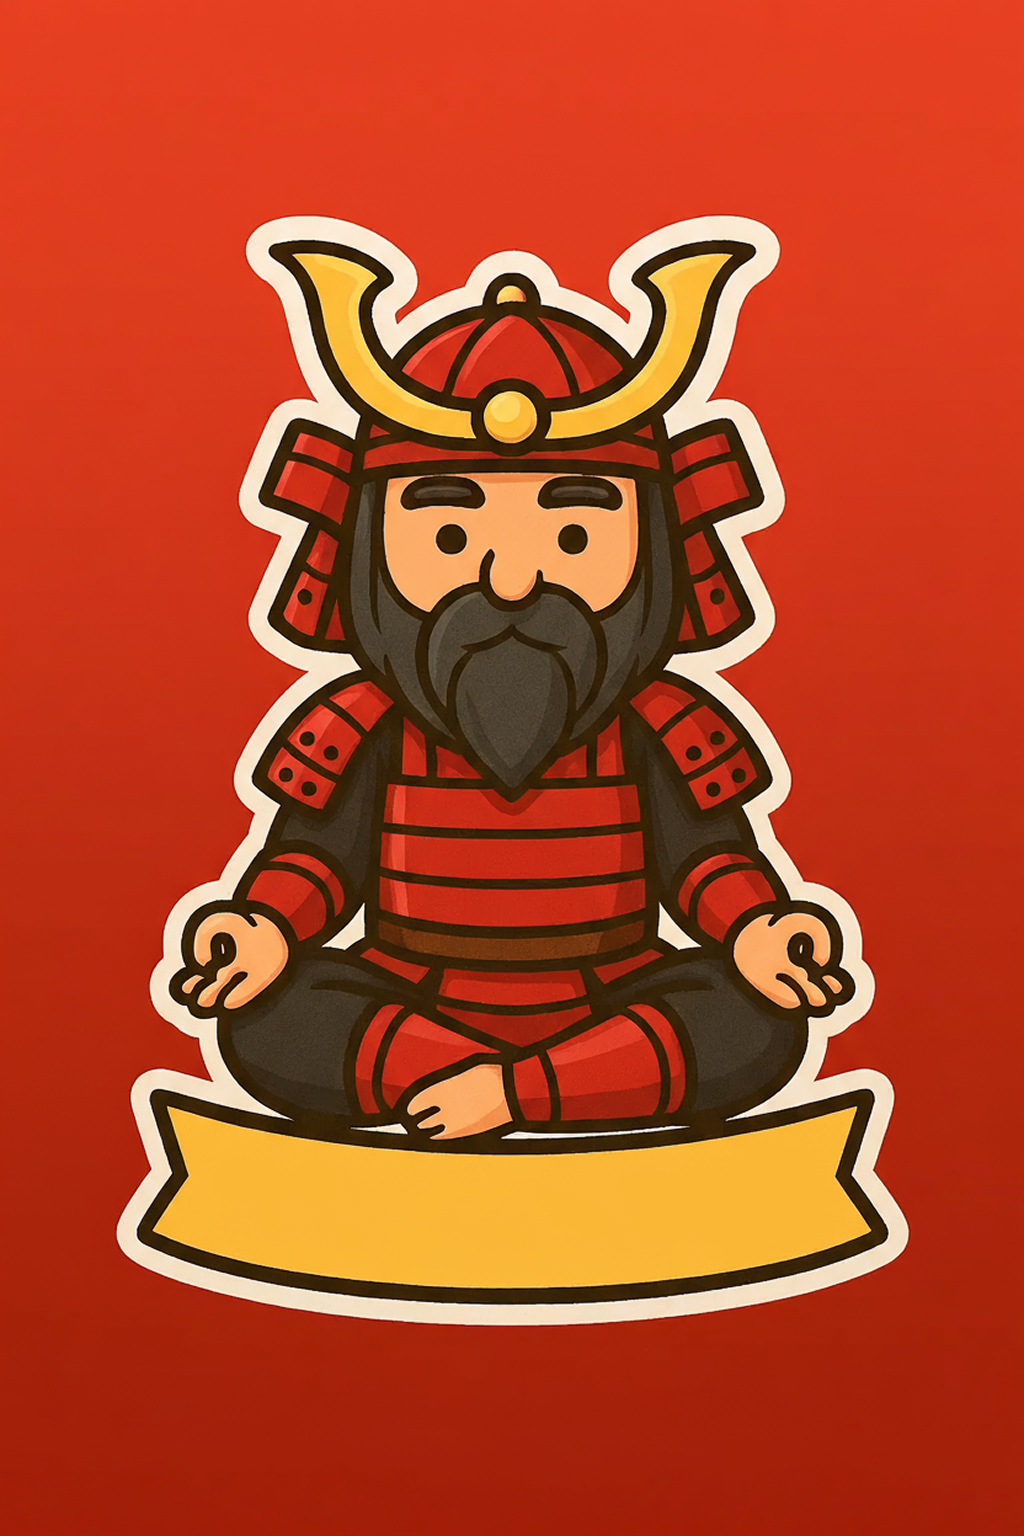
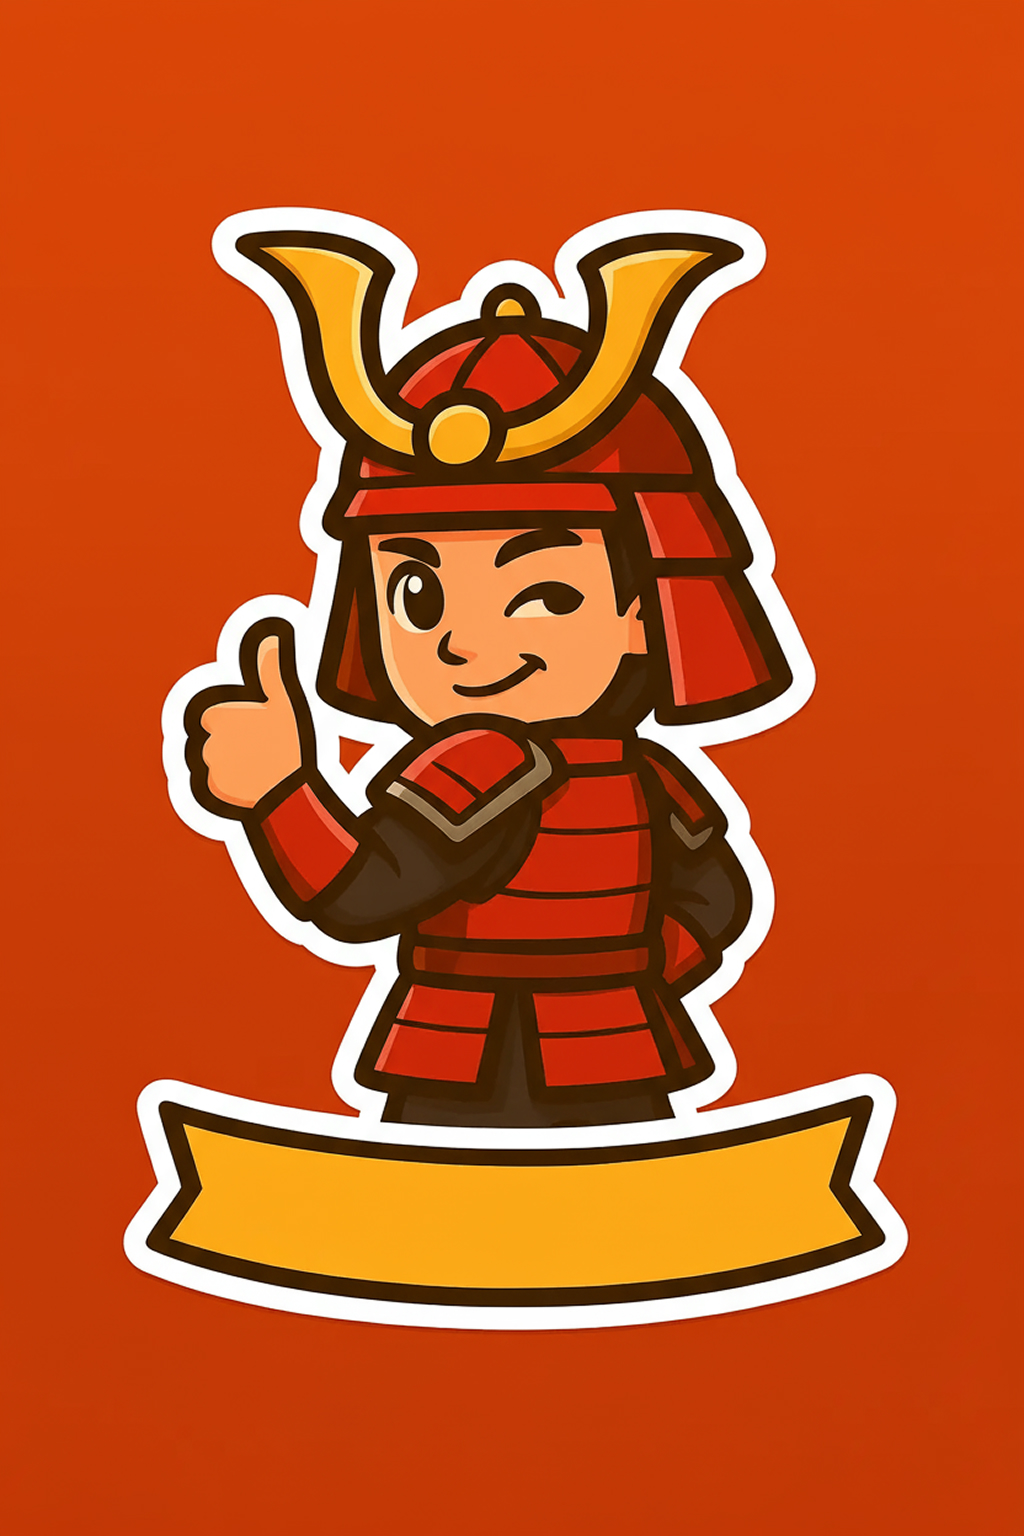
Добавлена генерация текста в промпте, убраны шаги, увеличен лимит текста до 20 символов, добавлен ref3.jpg

diff --git a/badge_bot.py b/badge_bot.py
@@ -47,7 +47,10 @@ REPLICATE_API_TOKEN = os.getenv("REPLICATE_API_TOKEN", "YOUR_REPLICATE_TOKEN")
 GENERATION_MODEL = "google/nano-banana"
 GENERATION_SEED = 4034097716  # None = случайный, число = фиксированный seed
 BACKGROUND_REMOVAL_MODEL = "851-labs/background-remover:a029dff38972b5fda4ec5d75d7d1cd25aeff621d2cf4946a41055d7db66b80bc"
-BACKGROUND_REMOVAL_ENABLED = False  # Деактивировано
+BACKGROUND_REMOVAL_ENABLED = False  # Активировано
+
+# Режим генерации текста
+GENERATE_TEXT_IN_PROMPT = True  # True = текст генерируется в промпте, False = добавляется программно
 
 # Референсные изображения
 REFERENCE_IMAGES_DIR = "reference_images"
@@ -63,7 +66,7 @@ TEXT_BEND_SHORT = 20  # Изгиб для текста <= 12 символов
 TEXT_BEND_LONG = 28   # Изгиб для текста > 12 символов
 TEXT_VERTICAL_OFFSET = 6  # Смещение текста вверх (пиксели)
 TEXT_LETTER_SPACING = 0.02  # Разрядка между буквами
-TEXT_MAX_LENGTH = 12  # Максимальная длина текста на баннере
+TEXT_MAX_LENGTH = 20  # Максимальная длина текста на баннере
 
 # Настройки поиска баннера
 BANNER_SEARCH_AREA_START = 0.6  # Начинаем поиск с 60% высоты изображения
@@ -93,12 +96,12 @@ MESSAGES = {
 
     "help": """📖 **Справка по использованию**
 
-**Шаг 1:** Опиши коротко что должно быть с самураем
+Опиши коротко что должно быть с самураем
 • Например: "с гитарой, с клавиатурой, в боевой стойке с мечом, с молотком, в овечьей шкуре"
 • Можно на русском или английском
 • Опиши что должно быть на картинке
 
-**Шаг 2:** Укажите текст для баннера
+Укажи текст для баннера
 • До {max_length} символов для лучшего вида
 • Английские заглавные буквы смотрятся лучше
 • Примеры: "UX SCOUT", "DEBUG NINJA"
@@ -132,7 +135,7 @@ MESSAGES = {
 
     "create_start": """🎨 Создаём новый бейдж!
 
-{step_text} Опиши коротко что должно быть с самураем
+Опиши коротко что должно быть с самураем
 Например: "с гитарой, с клавиатурой, в боевой стойке с мечом, с молотком, в овечьей шкуре"
 
 Или /cancel для отмены""",
@@ -141,7 +144,7 @@ MESSAGES = {
 
 📸 Использую предустановленные референсные фото ({count} шт.)
 
-**Шаг 2/2:** Какой текст написать на баннере?
+Какой текст написать на баннере?
 Например: DEBUG NINJA, CODE MASTER, UX SCOUT...
 
 (До {max_length} символов)""",
@@ -150,21 +153,21 @@ MESSAGES = {
 
 ⚠ Референсные фото не найдены в папке {ref_dir}
 
-**Шаг 2/2:** Какой текст написать на баннере?
+Какой текст написать на баннере?
 Например: DEBUG NINJA, CODE MASTER, UX SCOUT...
 
 (До {max_length} символов)""",
 
     "scene_received_old_mode": """✅ Отлично! Сюжет: *{scene}*
 
-**Шаг 2/3:** Хочешь добавить референсные фото? (опционально)
+Хочешь добавить референсные фото? (опционально)
 Отправь фото или напиши /skip чтобы пропустить
 
 Можно отправить до 4 фото""",
 
     "photo_uploaded_max": """✅ Загружено {count} фото (максимум)
 
-**Шаг 3/3:** Какой текст написать на баннере?
+Какой текст написать на баннере?
 Например: DEBUG NINJA, CODE MASTER, UX SCOUT...
 
 (До {max_length} символов)""",
@@ -177,7 +180,7 @@ MESSAGES = {
 
     "skip_photos": """⏭ Пропускаем референсные фото
 
-**Шаг 3/3:** Какой текст написать на баннере?
+Какой текст написать на баннере?
 Например: DEBUG NINJA, CODE MASTER, UX SCOUT...
 
 (До {max_length} символов)""",
@@ -186,9 +189,6 @@ MESSAGES = {
 Попробуй покороче:""",
 
     "generating": "⏳ Создаю твой бейдж...\nЭто займёт 10-30 секунд ⚡",
-    "generating_step1": "⏳ Генерирую изображение... (1/2)",
-    "generating_step2": "⏳ Добавляю текст на баннер... (2/2)",
-    "generating_step3": "⏳ Удаляю фон... (3/3)",
     "generating_quick": "⏳ Создаю бейдж...",
 
     "badge_ready": """🎊 Твой бейдж готов!
@@ -312,7 +312,7 @@ def translate_to_english(text: str, user_id: int) -> str:
         return text
 
 
-def generate_image_with_lora(scene_description: str, user_id: int, reference_images: list = None) -> str:
+def generate_image_with_lora(scene_description: str, user_id: int, reference_images: list = None, badge_text: str = None) -> str:
     """Генерирует изображение через модель google/nano-banana"""
     if not os.getenv("REPLICATE_API_TOKEN"):
         os.environ["REPLICATE_API_TOKEN"] = REPLICATE_API_TOKEN
@@ -320,9 +320,31 @@ def generate_image_with_lora(scene_description: str, user_id: int, reference_ima
     try:
         logger.info(f"User {user_id}: Generating image with scene '{scene_description}'")
         
+        # Формируем базовый промпт
+        prompt_parts = [
+            "single character portrait",
+            scene_description,
+            "plain grey background",
+            "isolated character",
+            "centered",
+            "no other people",
+            "solo character",
+            "simple clean background"
+        ]
+        
+        # Если включена генерация текста в промпте и текст передан
+        if GENERATE_TEXT_IN_PROMPT and badge_text:
+            badge_text_upper = badge_text.upper()
+            prompt_parts.append(f"yellow banner at the bottom with text '{badge_text_upper}' written on it")
+            logger.info(f"User {user_id}: Including badge text '{badge_text_upper}' in prompt")
+        else:
+            prompt_parts.append("yellow banner at the bottom for text")
+        
+        prompt = ", ".join(prompt_parts)
+        
         nano_banana_input = {
-            "prompt": f"single character portrait, {scene_description}, plain white background, isolated character, centered, no other people, solo character, simple clean background, yellow banner at the bottom for text",
-            "negative_prompt": "multiple people, crowd, background scenery, landscape, buildings, complex background, group photo, many characters, detailed background, other people, extras",
+            "prompt": prompt,
+            "negative_prompt": "multiple people, crowd, background scenery, landscape, buildings, complex background, group photo, many characters, detailed background, other people, extras, text errors, misspelled words, wrong text",
             "output_format": "jpg",
         }
         
@@ -555,8 +577,7 @@ async def cancel_command(update: Update, context: ContextTypes.DEFAULT_TYPE):
 
 async def create_badge(update: Update, context: ContextTypes.DEFAULT_TYPE):
     """Начало создания бейджа"""
-    step_text = "**Шаг 1/2:**" if USE_PREDEFINED_REFERENCE_IMAGES else "**Шаг 1/3:**"
-    await update.message.reply_text(MESSAGES["create_start"].format(step_text=step_text))
+    await update.message.reply_text(MESSAGES["create_start"])
     return WAITING_FOR_SCENE
 
 
@@ -659,14 +680,25 @@ async def handle_badge_text_input(update: Update, context: ContextTypes.DEFAULT_
     status_message = await update.message.reply_text(MESSAGES["generating"])
     
     try:
-        await status_message.edit_text(MESSAGES["generating_step1"])
-        image_url = generate_image_with_lora(scene_description, user_id, reference_images)
+        # Передаём текст в генерацию, если включен режим генерации текста в промпте
+        image_url = generate_image_with_lora(
+            scene_description, 
+            user_id, 
+            reference_images,
+            badge_text=badge_text if GENERATE_TEXT_IN_PROMPT else None
+        )
         
-        await status_message.edit_text(MESSAGES["generating_step2"])
-        image_with_text = add_text_to_badge(image_url, badge_text, user_id)
+        # Если текст генерируется в промпте, пропускаем этап добавления текста
+        if GENERATE_TEXT_IN_PROMPT:
+            # Загружаем изображение напрямую
+            response = requests.get(image_url)
+            response.raise_for_status()
+            image_with_text = BytesIO(response.content)
+            image_with_text.seek(0)
+        else:
+            image_with_text = add_text_to_badge(image_url, badge_text, user_id)
         
         if BACKGROUND_REMOVAL_ENABLED:
-            await status_message.edit_text(MESSAGES["generating_step3"])
             image_with_text = remove_background(image_with_text, user_id)
         
         await status_message.delete()
@@ -751,8 +783,23 @@ async def handle_quick_generate(update: Update, context: ContextTypes.DEFAULT_TY
         reference_images = load_reference_images_from_dir(REFERENCE_IMAGES_DIR)
     
     try:
-        image_url = generate_image_with_lora(scene_description_en, user_id, reference_images)
-        image_with_text = add_text_to_badge(image_url, badge_text, user_id)
+        # Передаём текст в генерацию, если включен режим генерации текста в промпте
+        image_url = generate_image_with_lora(
+            scene_description_en, 
+            user_id, 
+            reference_images,
+            badge_text=badge_text if GENERATE_TEXT_IN_PROMPT else None
+        )
+        
+        # Если текст генерируется в промпте, пропускаем этап добавления текста
+        if GENERATE_TEXT_IN_PROMPT:
+            # Загружаем изображение напрямую
+            response = requests.get(image_url)
+            response.raise_for_status()
+            image_with_text = BytesIO(response.content)
+            image_with_text.seek(0)
+        else:
+            image_with_text = add_text_to_badge(image_url, badge_text, user_id)
         
         if BACKGROUND_REMOVAL_ENABLED:
             image_with_text = remove_background(image_with_text, user_id)
